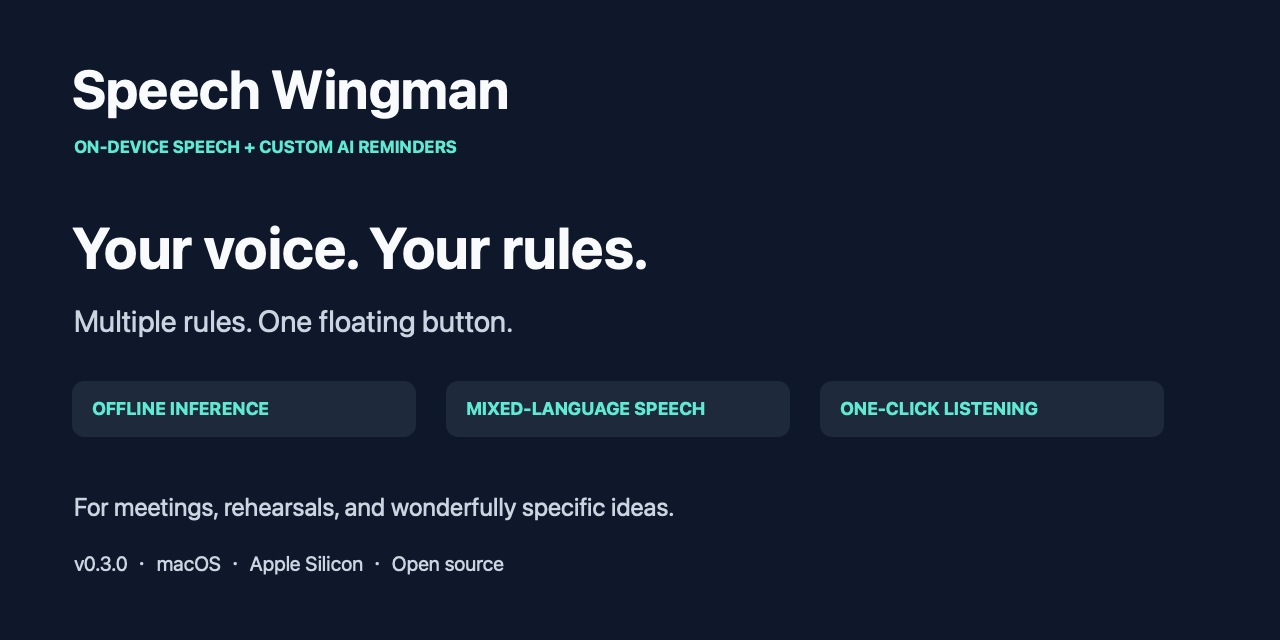
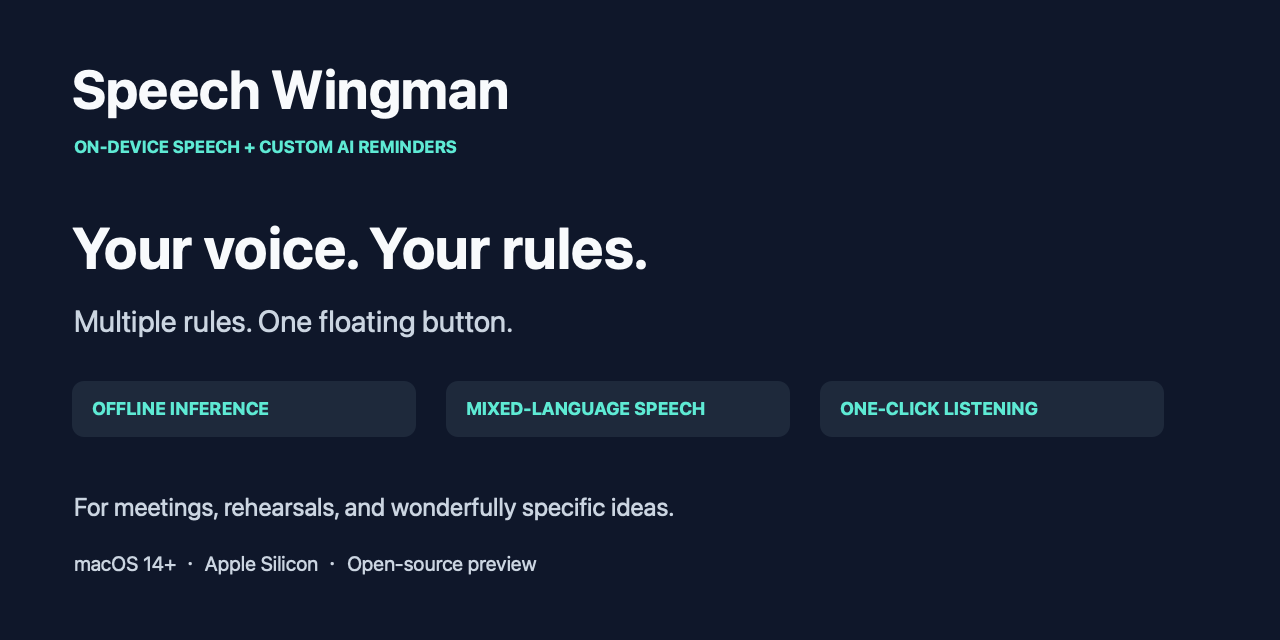
docs: keep social preview artwork version independent

Changed region(s): [[0.0625, 0.8438, 0.4375, 0.9062]]

diff --git a/Scripts/render-social-preview.swift b/Scripts/render-social-preview.swift
@@ -26,7 +26,7 @@ for (x, label) in [(CGFloat(72), "OFFLINE INFERENCE"), (CGFloat(446), "MIXED-LAN
     text(label, x:x+20, y:221, size:18, color:accent, bold:true)
 }
 text("For meetings, rehearsals, and wonderfully specific ideas.", x:74, y:119, size:25, color:muted)
-text("v0.3.0  ·  macOS  ·  Apple Silicon  ·  Open source", x:74, y:64, size:20, color:muted)
+text("macOS 14+  ·  Apple Silicon  ·  Open-source preview", x:74, y:64, size:20, color:muted)
 NSGraphicsContext.restoreGraphicsState()
 let url = URL(fileURLWithPath: CommandLine.arguments[1])
 let encoded = NSMutableData()
